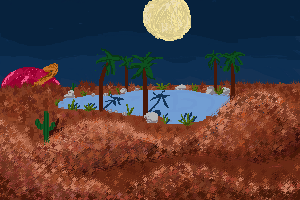
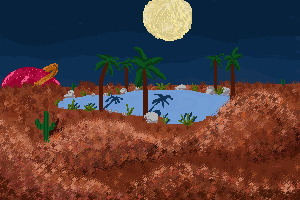
background changes

diff --git a/src/App.jsx b/src/App.jsx
@@ -2843,8 +2843,8 @@ import {
     const ABOVE_GROUND = new Set(['home','shop','faq','tutorial','guidelines']);
     const ALT_LEVEL    = { below: 0, above: 1, space: 2 };
     const altOf        = p => p === 'admin' ? 'space' : ABOVE_GROUND.has(p) ? 'above' : 'below';
-    // Home, FAQ, Admin, and Arcade each have their own unique terrain; all others share their altitude's terrain
-    const terrainOf = p => p === 'home' ? 'home' : p === 'faq' ? 'faq' : p === 'admin' ? 'admin' : p === 'arcade' ? 'arcade' : altOf(p);
+    // Home, FAQ, Admin, Arcade, and Guidelines each have their own unique terrain; all others share their altitude's terrain
+    const terrainOf = p => p === 'home' ? 'home' : p === 'guidelines' ? 'home' : p === 'faq' ? 'faq' : p === 'admin' ? 'admin' : p === 'arcade' ? 'arcade' : altOf(p);
 
     // Sky layers (fixed, never slide — one per altitude, fade between them)
     const SKY_ABOVE = { file: 'bg2-layer-0.png', op: 0.50 };